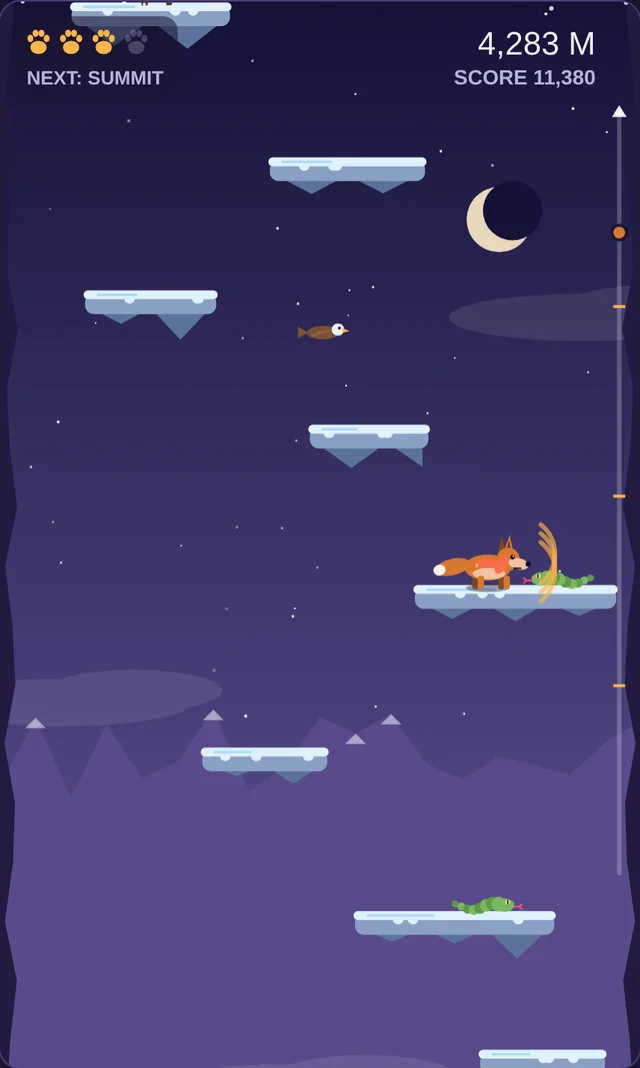
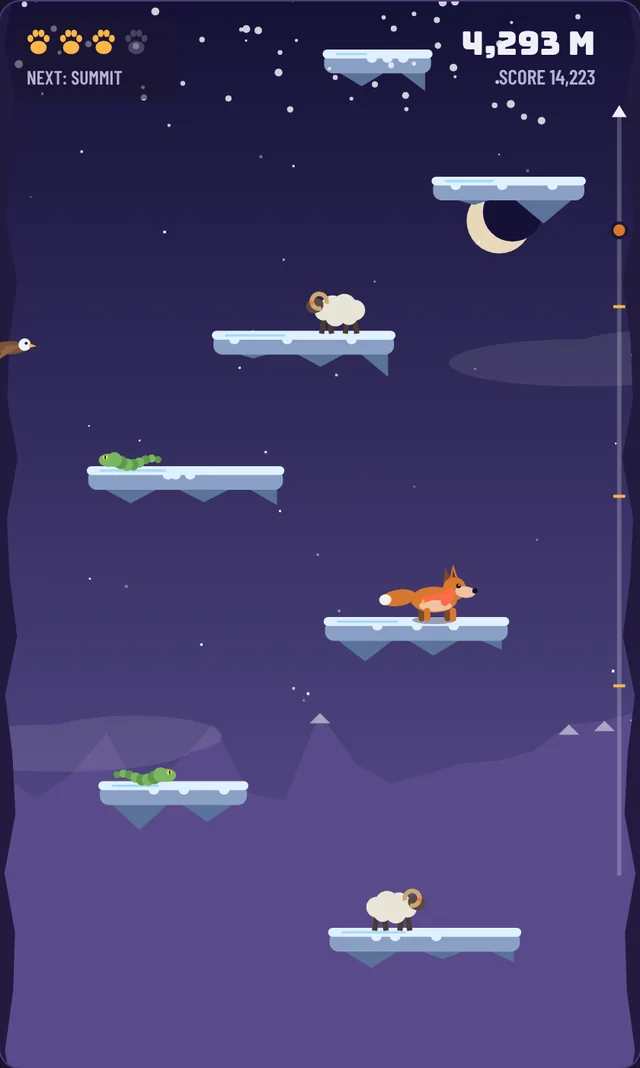
Summit Claws: THE RIG spec sheet drawn by the game's own drawAnimal(), restored Ice screen, caps sub-headers

diff --git a/tools/summit_claws_rig.js b/tools/summit_claws_rig.js
@@ -1,0 +1,154 @@
+// Summit Claws: draws the rig sheet and captures gameplay screens straight from the game's own
+// canvas code (games/summit-claws.html). No sprites, no generated images.
+// Usage: python3 -m http.server 8765 &  then
+//   FONTS=/path/to/node_modules/@fontsource node tools/summit_claws_rig.js <outdir>
+// Needs the npm packages @fontsource/bungee and @fontsource/barlow-condensed (the game's Google Fonts).
+const {chromium}=require('playwright');
+const fs=require('fs'),path=require('path');
+const OUT=process.argv[2]||'.';const FS=process.env.FONTS;const BASE='http://localhost:8765/';
+
+async function prep(page){
+ await page.route('https://fonts.googleapis.com/**',r=>{
+  const ff=(fam,w,file)=>`@font-face{font-family:"${fam}";font-weight:${w};src:url(/__fs/${file})}`;
+  r.fulfill({contentType:'text/css',body:[ff('Bungee',400,'bungee/files/bungee-latin-400-normal.woff2'),
+   ...[500,600,700].map(w=>ff('Barlow Condensed',w,`barlow-condensed/files/barlow-condensed-latin-${w}-normal.woff2`))].join('\n')});
+ });
+ await page.route('**/__fs/**',r=>r.fulfill({contentType:'font/woff2',body:fs.readFileSync(path.join(FS,r.request().url().split('/__fs/')[1]))}));
+ await page.route('**/games/summit-claws.html',async r=>{
+  const res=await r.fetch();let t=await res.text();
+  const k=t.lastIndexOf('requestAnimationFrame(frame);');
+  t=t.slice(0,k)+'window.__SC={ANIMALS,FURS,drawAnimal,mix,rr,W,H,keys,startGame,showOnly,get G(){return G},get look(){return look},set look(v){look=v}};'+t.slice(k);
+  r.fulfill({response:res,body:t});
+ });
+}
+
+const SHEET=()=>{
+ const S=window.__SC,A=S.ANIMALS;const WD=1600,HT=1860,DPR=2;
+ const cv=document.createElement('canvas');cv.id='rig';cv.width=WD*DPR;cv.height=HT*DPR;
+ cv.style.cssText=`position:fixed;left:0;top:0;width:${WD}px;height:${HT}px;z-index:99`;document.body.appendChild(cv);
+ const c=cv.getContext('2d');c.scale(DPR,DPR);
+ const INK='#0B0B0C',OR='#FF5A1F',PAPER='#F2EEE6',MUT='rgba(242,238,230,.52)',LINE='rgba(242,238,230,.16)';
+ const MONO='"JetBrains Mono", monospace',DISP='"Inter Display", sans-serif';
+ c.fillStyle=INK;c.fillRect(0,0,WD,HT);
+ for(let x=0;x<=WD;x+=20){c.fillStyle=x%100?'rgba(255,255,255,.035)':'rgba(255,255,255,.07)';c.fillRect(x,0,1,HT)}
+ for(let y=0;y<=HT;y+=20){c.fillStyle=y%100?'rgba(255,255,255,.035)':'rgba(255,255,255,.07)';c.fillRect(0,y,WD,1)}
+ const txt=(s,x,y,f,col,al='left')=>{c.font=f;c.fillStyle=col;c.textAlign=al;c.fillText(s,x,y)};
+ const ticks=(x,y,w,h,col=OR,l=10)=>{c.strokeStyle=col;c.lineWidth=2;c.beginPath();
+  for(const[px,py,dx,dy]of[[x,y,1,1],[x+w,y,-1,1],[x,y+h,1,-1],[x+w,y+h,-1,-1]]){c.moveTo(px+dx*l,py);c.lineTo(px,py);c.lineTo(px,py+dy*l)}c.stroke()};
+ const box=(x,y,w,h)=>{c.strokeStyle=LINE;c.lineWidth=1;c.strokeRect(x+.5,y+.5,w-1,h-1);ticks(x,y,w,h)};
+ // T mark
+ const T=(x,y,s)=>{c.fillStyle=OR;c.fillRect(x,y,24*s,6*s);c.fillRect(x+9*s,y,6*s,28*s)};
+ // header
+ T(48,40,1.3);
+ txt('FIG. SC-01  ·  SUMMIT CLAWS  ·  CHARACTER SYSTEM',90,58,`700 13px ${MONO}`,OR);
+ txt('ONE RIG, EIGHT ANIMALS',48,118,`900 52px ${DISP}`,PAPER);
+ txt('5 PART SLOTS  ·  12 FURS  ·  4 GEAR  ·  4 STATS + 1 PERK',WD-48,58,`400 13px ${MONO}`,MUT,'right');
+ txt('drawAnimal(ctx, x, y, dir, look, t)',WD-48,112,`400 15px ${MONO}`,PAPER,'right');
+ // mirrored spectrum stripe, amber at centre
+ const g=c.createLinearGradient(48,0,WD-48,0);
+ [['#2D7FF9',0],['#7A2BD9',.18],['#E8203A',.36],['#FFB000',.5],['#E8203A',.64],['#7A2BD9',.82],['#2D7FF9',1]].forEach(([col,o])=>g.addColorStop(o,col));
+ c.fillStyle=g;c.fillRect(48,140,WD-96,3);
+
+ // ---- section A: lineup
+ txt('A  /  THE EIGHT ANIMALS',48,186,`700 13px ${MONO}`,OR);
+ txt('SAME BODY, LEGS AND HEAD. ONLY THE PARAMETERS CHANGE.',WD-48,186,`400 12px ${MONO}`,MUT,'right');
+ const keys=Object.keys(A).filter(k=>k!=='tmp');
+ const rng=(k)=>{const v=keys.map(a=>A[a][k]);return[Math.min(...v),Math.max(...v)]};
+ const R={speed:rng('speed'),jump:rng('jump'),power:rng('power'),hp:rng('hp')};
+ const cw=(WD-96-3*16)/4,ch=250;
+ keys.forEach((k,i)=>{const a=A[k],x=48+(i%4)*(cw+16),y=204+Math.floor(i/4)*(ch+16);
+  c.fillStyle='rgba(242,238,230,.025)';c.fillRect(x,y,cw,ch);box(x,y,cw,ch);
+  txt(String(i+1).padStart(2,'0'),x+16,y+28,`700 12px ${MONO}`,OR);
+  txt(a.name.toUpperCase(),x+44,y+29,`700 19px ${DISP}`,PAPER);
+  // ground line + crosshair
+  const gx=x+118,gy=y+172;c.fillStyle='rgba(242,238,230,.22)';c.fillRect(x+16,gy,200,1);
+  c.fillStyle=OR;c.fillRect(gx-1,gy-5,2,10);
+  c.save();c.translate(gx,gy);c.scale(2.7,2.7);S.drawAnimal(c,0,0,1,{animal:k,fur:a.fur,pattern:'auto',gear:'none'},.35,{noShadow:true});c.restore();
+  // spec column
+  const sx=x+cw-128;const rows=[['EARS',a.ears],['TAIL',a.tail],['SNOUT',a.snout],['MARK',a.pattern],['SIZE',a.size.toFixed(2)]];
+  rows.forEach(([kk,v],j)=>{txt(kk,sx,y+64+j*20,`400 11px ${MONO}`,MUT);txt(v.toUpperCase(),sx+112,y+64+j*20,`700 11px ${MONO}`,PAPER,'right')});
+  c.fillStyle=a.fur;c.fillRect(sx,y+172,14,14);c.strokeStyle=LINE;c.strokeRect(sx+.5,y+172.5,13,13);
+  txt(a.fur.toUpperCase(),sx+22,y+184,`400 11px ${MONO}`,MUT);
+  // stat bars
+  const st=[['SPD','speed'],['JMP','jump'],['PWR','power'],['HP','hp']];
+  st.forEach(([lab,key],j)=>{const bx=x+16+j*((cw-32)/4),bw=(cw-32)/4-12,by=y+204;
+   txt(lab+' '+a[key],bx,by,`400 10px ${MONO}`,MUT);
+   const f=.18+.82*(a[key]-R[key][0])/((R[key][1]-R[key][0])||1);
+   c.fillStyle='rgba(242,238,230,.12)';c.fillRect(bx,by+10,bw,5);c.fillStyle=OR;c.fillRect(bx,by+10,bw*f,5)});
+  const perk=a.perk.replace(/<[^>]+>/g,'').split('.')[0];
+  txt('PERK  '+perk.toUpperCase(),x+16,y+ch-14,`700 10px ${MONO}`,OR);
+ });
+
+ // ---- section B: parameter sweep
+ const by0=204+2*(ch+16)+40;
+ txt('B  /  PARAMETER SWEEP',48,by0,`700 13px ${MONO}`,OR);
+ txt('BASE: GRAY WOLF. EACH ROW CHANGES ONE INPUT AND HOLDS THE REST.',WD-48,by0,`400 12px ${MONO}`,MUT,'right');
+ const base=Object.assign({},A.wolf);
+ const rowsB=[
+  ['EARS','ears',['point','big','tufts','round','horns','tiny']],
+  ['TAIL','tail',['bushy','fox','long','stub']],
+  ['SNOUT','snout',['long','short','goat']],
+  ['MARKINGS','pattern',['none','stripes','spots','badger']],
+  ['GEAR','gear',['none','scarf','helmet','pack']],
+  ['SIZE','size',[.9,.95,1,1.05,1.15]],
+ ];
+ const lx=48,lw=196,gx0=lx+lw,gw=WD-48-gx0,rh=132;
+ rowsB.forEach(([lab,key,opts],r)=>{const y=by0+18+r*(rh+10);
+  c.fillStyle='rgba(242,238,230,.025)';c.fillRect(lx,y,WD-96,rh);box(lx,y,WD-96,rh);
+  txt(lab,lx+18,y+50,`900 24px ${DISP}`,PAPER);
+  txt(String(opts.length).padStart(2,'0')+' OPTIONS',lx+18,y+74,`400 11px ${MONO}`,MUT);
+  const n=6,cwB=gw/n;
+  opts.forEach((o,j)=>{const cx=gx0+j*cwB;
+   if(j){c.fillStyle=LINE;c.fillRect(cx,y+14,1,rh-28)}
+   A.tmp=Object.assign({},base);let lk={animal:'tmp',fur:base.fur,pattern:'auto',gear:'none'};
+   if(key==='gear')lk.gear=o;else A.tmp[key]=o;
+   const ox=cx+cwB/2-6,oy=y+96;
+   c.save();c.translate(ox,oy);c.scale(1.55,1.55);S.drawAnimal(c,0,0,1,lk,.35,{noShadow:true});c.restore();
+   const on=(key==='gear'?o==='none':base[key]===o);
+   txt((typeof o==='number'?o.toFixed(2):o).toUpperCase(),cx+cwB/2,y+rh-12,`700 11px ${MONO}`,on?OR:PAPER,'center');
+  });
+ });
+ delete A.tmp;
+ // furs strip
+ const fy=by0+18+rowsB.length*(rh+10);
+ c.fillStyle='rgba(242,238,230,.025)';c.fillRect(lx,fy,WD-96,rh);box(lx,fy,WD-96,rh);
+ txt('FUR',lx+18,fy+50,`900 24px ${DISP}`,PAPER);txt(String(S.FURS.length)+' OPTIONS',lx+18,fy+74,`400 11px ${MONO}`,MUT);
+ const cwF=gw/S.FURS.length;
+ S.FURS.forEach((f,j)=>{const cx=gx0+j*cwF;
+  c.save();c.translate(cx+cwF/2-2,fy+94);c.scale(1.05,1.05);S.drawAnimal(c,0,0,1,{animal:'wolf',fur:f,pattern:'auto',gear:'none'},.35,{noShadow:true});c.restore();
+  txt(f.slice(1).toUpperCase(),cx+cwF/2,fy+rh-12,`400 10px ${MONO}`,j===0?OR:MUT,'center')});
+ // footer
+ txt('EVERY FRAME ABOVE IS DRAWN LIVE BY THE GAME\'S OWN drawAnimal() ON A CANVAS. NO SPRITES, NO BITMAPS.',48,HT-28,`400 12px ${MONO}`,MUT);
+ txt('TIGRE STUDIO  ·  H. ORTEGA',WD-48,HT-28,`700 12px ${MONO}`,OR,'right');
+ return [WD,HT];
+};
+
+(async()=>{
+ const b=await chromium.launch({executablePath:'/usr/bin/google-chrome'});
+ // 1. rig sheet
+ {const p=await b.newPage({viewport:{width:1600,height:1860},deviceScaleFactor:2});await prep(p);
+  await p.goto(BASE+'games/summit-claws.html');
+  await p.addStyleTag({content:'@font-face{font-family:"Inter Display";font-weight:900;src:url(/fonts/InterDisplay-Black.woff2)}@font-face{font-family:"Inter Display";font-weight:700;src:url(/fonts/InterDisplay-Bold.woff2)}@font-face{font-family:"JetBrains Mono";font-weight:400;src:url(/fonts/JetBrainsMono-400.woff2)}@font-face{font-family:"JetBrains Mono";font-weight:700;src:url(/fonts/JetBrainsMono-700.woff2)}'});
+  await p.evaluate(async()=>{for(const f of['900 20px "Inter Display"','700 20px "Inter Display"','400 12px "JetBrains Mono"','700 12px "JetBrains Mono"'])await document.fonts.load(f)});
+  await p.waitForFunction(()=>window.__SC);
+  await p.evaluate(SHEET);
+  await p.locator('#rig').screenshot({path:path.join(OUT,'sc_rig.png')});await p.close()}
+ // 2. ice screen: red fox in a scarf high on the ice band, near Camp III
+ {const p=await b.newPage({viewport:{width:480,height:800},deviceScaleFactor:2});await prep(p);
+  await p.goto(BASE+'games/summit-claws.html');await p.waitForFunction(()=>window.__SC);
+  await p.evaluate(()=>document.fonts.ready);
+  await p.evaluate(()=>{const S=__SC;S.look={animal:'fox',fur:S.ANIMALS.fox.fur,pattern:'auto',gear:'scarf',name:''};
+   document.getElementById('nameIn').value='';S.startGame();Math.random=(()=>{let a=7;return()=>{a=(a*16807)%2147483647;return a/2147483647}})();});
+  await p.evaluate(()=>{const G=__SC.G;
+   // ice band = zone 3 rock ledges; stand on one with a hawk or ram nearby
+   const pl=G.plats.filter(q=>q.zone===3&&q.kind==='rock'&&q.i>58)[2];
+   const camp=G.plats.find(q=>q.kind==='camp'&&q.camp===3);
+   Object.assign(G.p,{x:pl.x+pl.w*.45,y:pl.y,vx:0,vy:0,onGround:true,plat:pl,dir:1});
+   G.camp=3;G.checkpoint=camp;G.camY=pl.y-__SC.H*.58;G.banner=null;G.score=11280;G.kills=9;G.berries=4;G.p.hp=G.p.maxHp-1;
+   G.enemies=G.enemies.filter(e=>Math.abs(e.y-pl.y)>40||e.type==='hawk');});
+  await p.waitForTimeout(700);
+  await p.evaluate(()=>{__SC.keys.right=true});await p.waitForTimeout(160);await p.evaluate(()=>{__SC.keys.right=false});
+  await p.waitForTimeout(250);
+  await p.locator('#stage').screenshot({path:path.join(OUT,'sc_snow_raw.png')});await p.close()}
+ await b.close();
+})();

diff --git a/index.html b/index.html
@@ -396,6 +396,12 @@ body::before{content:"";position:fixed;inset:0 0 auto;height:env(safe-area-inset
 .gm-play{display:grid;grid-template-columns:minmax(0,520px) minmax(0,1fr);gap:48px;align-items:start;padding-top:32px}
 .gm-frame{display:block;width:100%;height:min(86vh,860px);min-height:560px;border:0;background:#1b1530;border-top-right-radius:24px}
 .gm-play h3{font-weight:700;font-size:24px;margin:0 0 12px}
+.gmp h3{text-transform:uppercase;letter-spacing:.01em}
+.gm-rig{display:block;margin-top:32px;border:1px solid rgba(242,238,230,.14);background:#0B0B0C;line-height:0}
+.gm-rig img{width:100%;height:auto}
+.gm-rig:focus-visible{outline:2px solid #FF5A1F;outline-offset:4px}
+.gm-rig-note{display:flex;justify-content:space-between;gap:16px;flex-wrap:wrap;font-family:"JetBrains Mono",monospace;font-size:12px;letter-spacing:.02em;color:var(--muted-d,#9a9a9a);margin-top:14px}
+.gm-rig-note a{color:#FF5A1F;text-transform:uppercase;letter-spacing:.06em}
 .gm-play p{margin:0 0 14px;max-width:46ch}
 .gm-keys{list-style:none;margin:0 0 24px;padding:0;border-top:2px solid var(--rule)}
 .gm-keys li{display:flex;justify-content:space-between;gap:16px;border-bottom:1px solid var(--grid);padding:9px 0}
@@ -3221,6 +3227,7 @@ const GAMES=[
   sub:'One character / Eight animals / One mountain',
   bar:[['Any Animal, One Climb','A simple game about a character climbing a mountain and fighting foes along the way, where the player can be any wild animal they like.'],['One Rig, Swappable Parts','Every animal is drawn in code from the same body, legs and head, with swappable ears, snout, tail and markings. Changing the animal swaps parts; changing the fur recolors them. It works like a parametric model with a few inputs.'],['Each Animal Plays Differently','Each animal has its own speed, jump, claw power and health, plus one perk, so choosing an animal is a gameplay choice as well as a look.']],
   shotsSub:'Character select / Rock face / Ice / Summit',
+  rig:{img:['img/sc__rig.webp',2400,2790,'Spec sheet: the eight animals drawn by the same rig with their part settings and stats, then a sweep that changes one input at a time: ears, tail, snout, markings, gear, size and twelve furs'],sub:'Five part slots / Twelve furs / Four gear / One function',note:'Drawn live by the game\'s own drawAnimal() and captured from the canvas. Script: tools/summit_claws_rig.js',full:'https://tigrestudiodesign.github.io/img/sc__rig.webp'},
   shots:[['img/sc__menu.webp',640,1068,'Character select: animal, fur, markings and gear'],['img/sc__rock.webp',640,1068,'Rock face: a tiger swipes at a charging ram'],['img/sc__snow.webp',640,1068,'Ice: a red fox in a scarf near the top'],['img/sc__boss.webp',640,1068,'Summit: a snow leopard faces the Yeti']],
   lists:[['Eight Animals','Every animal has one perk',[['Pack sprint','Gray Wolf','Fastest runner on the mountain'],['Thick hide','Grizzly','Hardest hits, most health'],['Quick claws','Red Fox','Attacks recover twice as fast'],['Sure-footed','Mountain Goat','Double jump'],['Ghost of the peaks','Snow Leopard','Double jump, highest leap'],['Wide swipe','Tiger','Longest claw reach'],['Pounce','Lynx','Landing on a foe hits for double'],['Stubborn','Honey Badger','Fully heals at every camp']]],
    ['The Mountain','Five stages / Three camps / One boss',[['1,350 m','Forest trail','Snakes on grassy ledges'],['Camp I','Rock face','Rams that lower their heads and charge'],['Camp II','Snow line','Hawks circling between ledges'],['Camp III','Ice','Slippery footing on every ledge'],['4,810 m','Summit','The Yeti: snowballs and ground slams']],'Ledges are laid out fresh each climb, so no two runs are the same. A side rail shows how far you are from the next camp, and every camp flag turns gold once you reach it.']],
@@ -3344,7 +3351,7 @@ function gamePage(i){
    <p class="muted">${esc(g.tip)}</p>
    <div class="ctas"><button type="button" class="btn inv gm-fs" id="gm-fs">Play full screen</button></div></div>`;
  const frame=`<div class="gm-box" id="gm-box"><iframe class="gm-frame${tall?'':' wide'}" id="gm-frame" data-game="${g.play}" title="${esc(g.title)}, playable game" allow="autoplay; fullscreen"></iframe><p class="gm-msg" id="gm-msg">Loading ${esc(g.title)}…</p><button type="button" class="gm-x" id="gm-x">Exit full screen</button></div>`;
- return head('top','GM')+`<main>
+ return head('top','GM')+`<main class="gmp">
  <section class="band dark"><div class="wrap case"><p class="num">Personal Project / Browser Game</p><h1>${esc(g.title)}</h1><p class="meta">${esc(g.meta)}</p>
   <p class="note">${esc(g.note)}</p>
   <dl class="facts">${g.facts.map(([t,d])=>`<div><dt>${t}</dt><dd>${esc(d)}</dd></div>`).join('')}</dl></div></section>
@@ -3356,6 +3363,11 @@ function gamePage(i){
  <section class="band light section"><div class="wrap"><h2 class="sh-title" style="font-size:32px">Brief, Approach, Result</h2><p class="sh-sub">${esc(g.sub)}</p>
   <div class="pra">${['Brief','Approach','Result'].map((k,j)=>`<div><small>${k}</small><h3>${esc(g.bar[j][0])}</h3><p>${esc(g.bar[j][1])}</p></div>`).join('')}</div>
  </div></section>
+
+ ${g.rig?`<section class="band dark section"><div class="wrap"><h2 class="sh-title" style="font-size:32px">The Rig</h2><p class="sh-sub">${esc(g.rig.sub)}</p>
+  <a class="gm-rig" href="${g.rig.full}" target="_blank" rel="noopener" aria-label="Open the rig spec sheet full size">${im(g.rig.img,g.rig.img[3])}</a>
+  <p class="gm-rig-note"><span>${esc(g.rig.note)}</span><a href="${g.rig.full}" target="_blank" rel="noopener">Open full size ↗</a></p>
+ </div></section>`:''}
 
  <section class="band alt section"><div class="wrap"><h2 class="sh-title" style="font-size:32px">The Screens</h2><p class="sh-sub">${esc(g.shotsSub)}</p>
   <div class="${tall?'gm-shots':'duo gm-duo'}">${g.shots.map(shot).join('')}</div>
